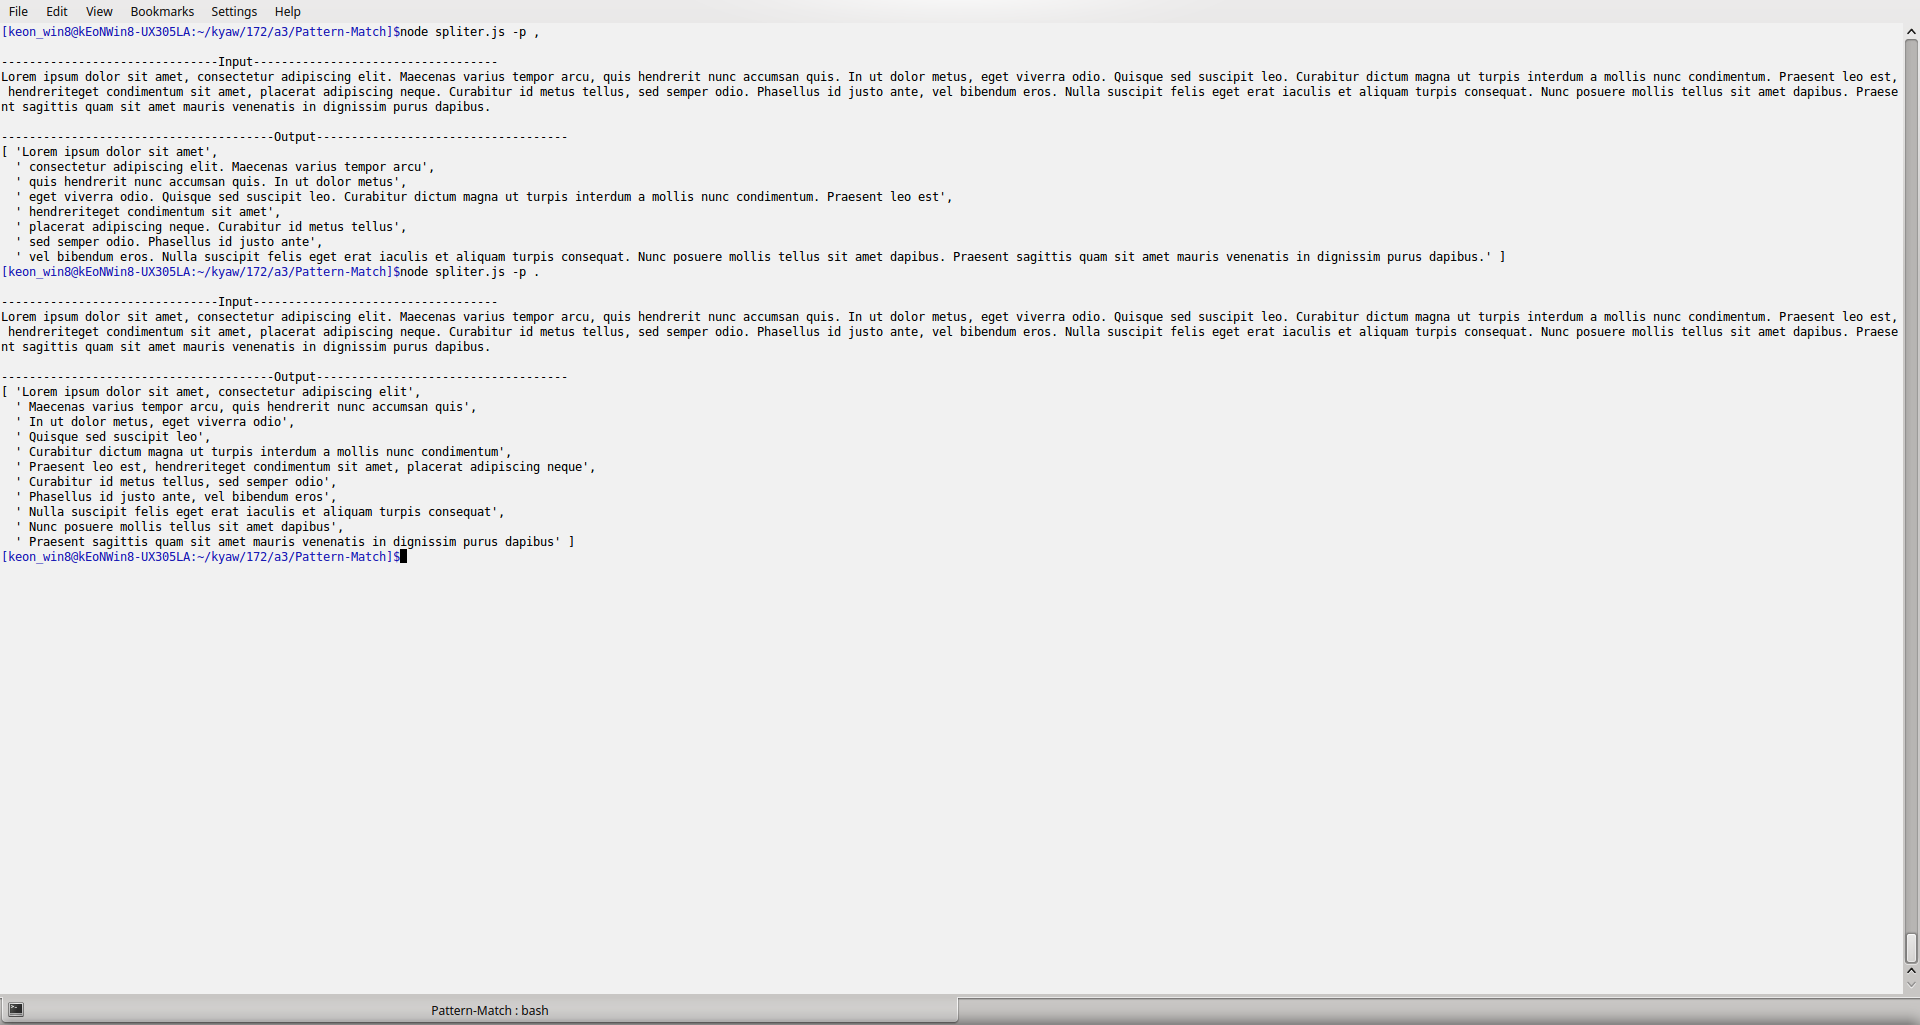
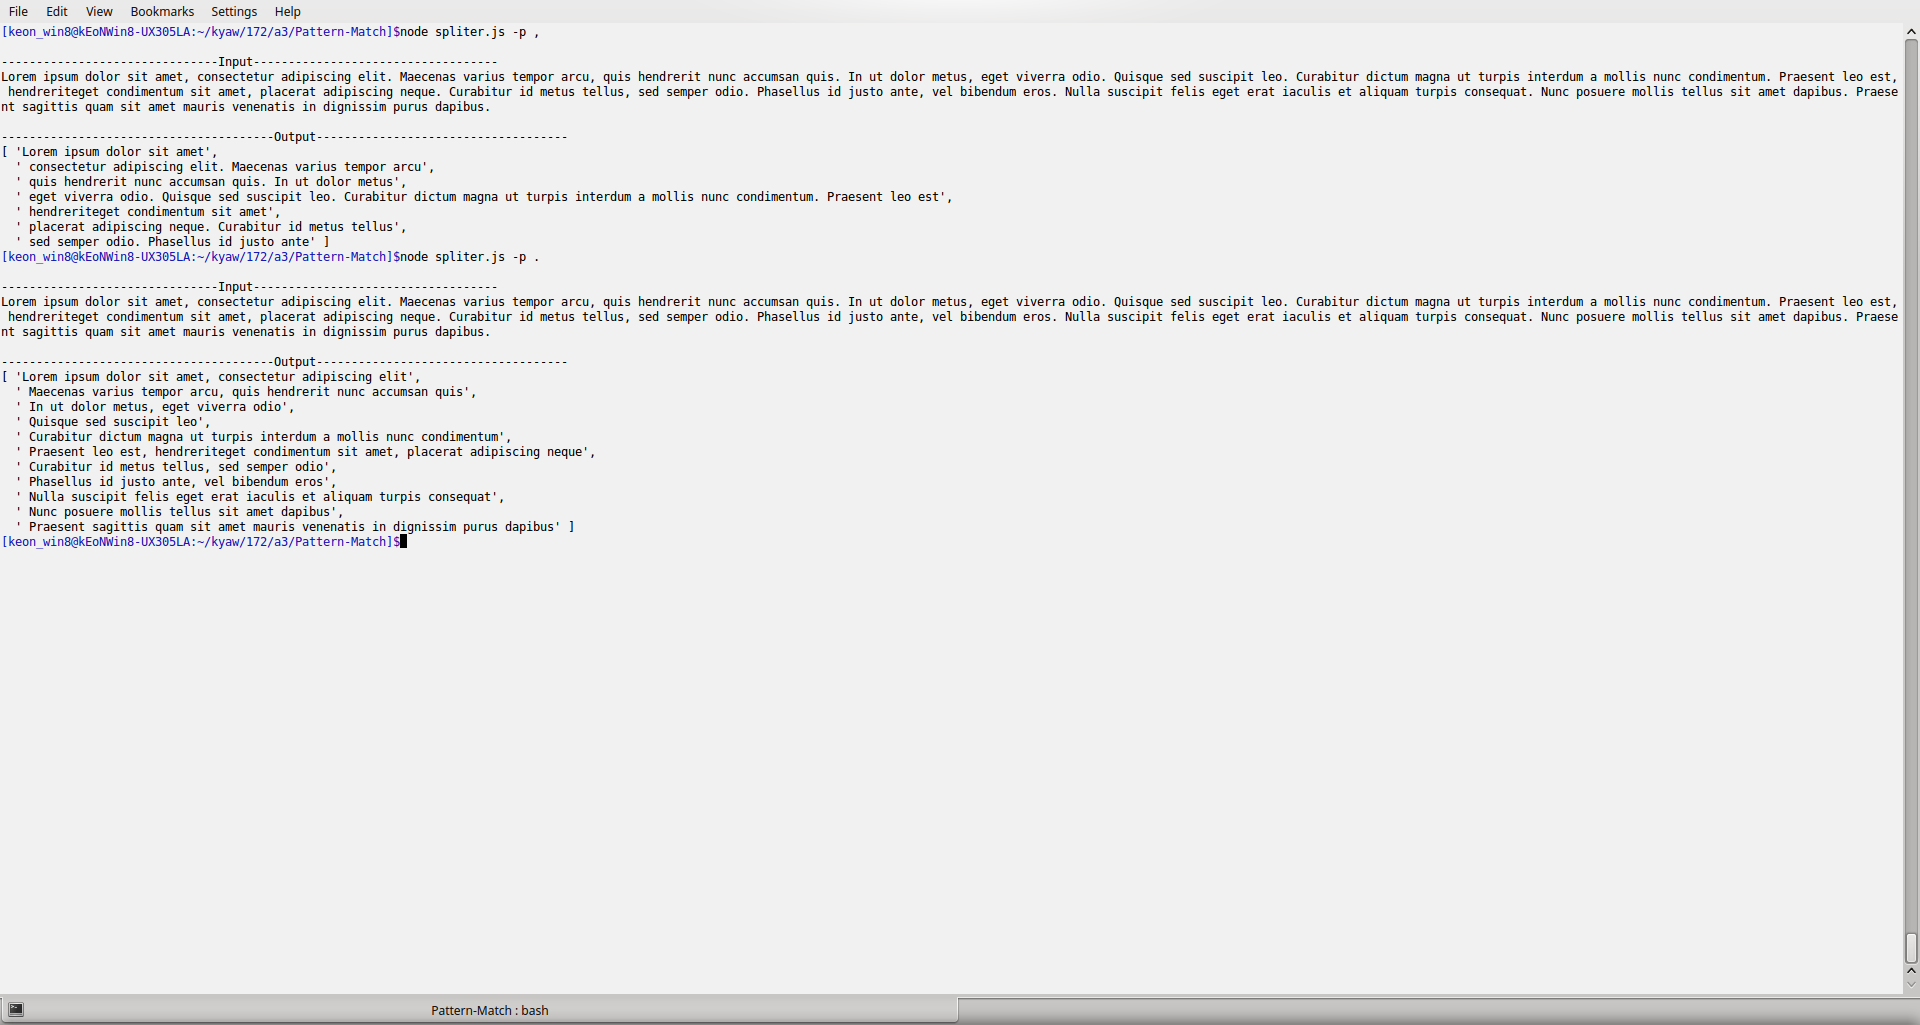
fixed lastline error

Changed region(s): [[0.0, 0.2498, 1.0, 0.562]]

diff --git a/spliter.js b/spliter.js
@@ -3,6 +3,7 @@ var PatternMatch = require('./mySpliter');
 var program = require('commander');
 var source = fs.createReadStream('./input-sensor.txt');
 
+var check = true;
 
 function parseSource(delimiter) {
 	console.log("\n-------------------------------Input-----------------------------------")
@@ -17,13 +18,19 @@ function parseSource(delimiter) {
 	patternStream.on('readable', function() {
 		var chunk;
 		while(null !== (chunk = patternStream.read())) {
+			if(chunk.indexOf(".") > -1) check = false;
 			result.push(chunk);
 		}
 	});
 
 	patternStream.on('end', function() {
 		console.log("\n\n---------------------------------------Output------------------------------------")
-		console.log(result);
+		if(check==false){
+			result.pop();
+			console.log(result);
+		}else {
+			console.log(result);
+		}
 	});
 }
 
@@ -32,7 +39,13 @@ program.option('-p, --pattern <pattern>', 'String delimiter').parse(process.argv
 
 if(program.pattern) {
 	if(program.pattern.length <= 1) {
-		parseSource(program.pattern);
+		// if(program.pattern == ","){
+		// 	check = false;
+		// 	parseSource(program.pattern);
+		// }else{
+			parseSource(program.pattern);
+		// }
+		
 	}
 } else {
 	program.help();
